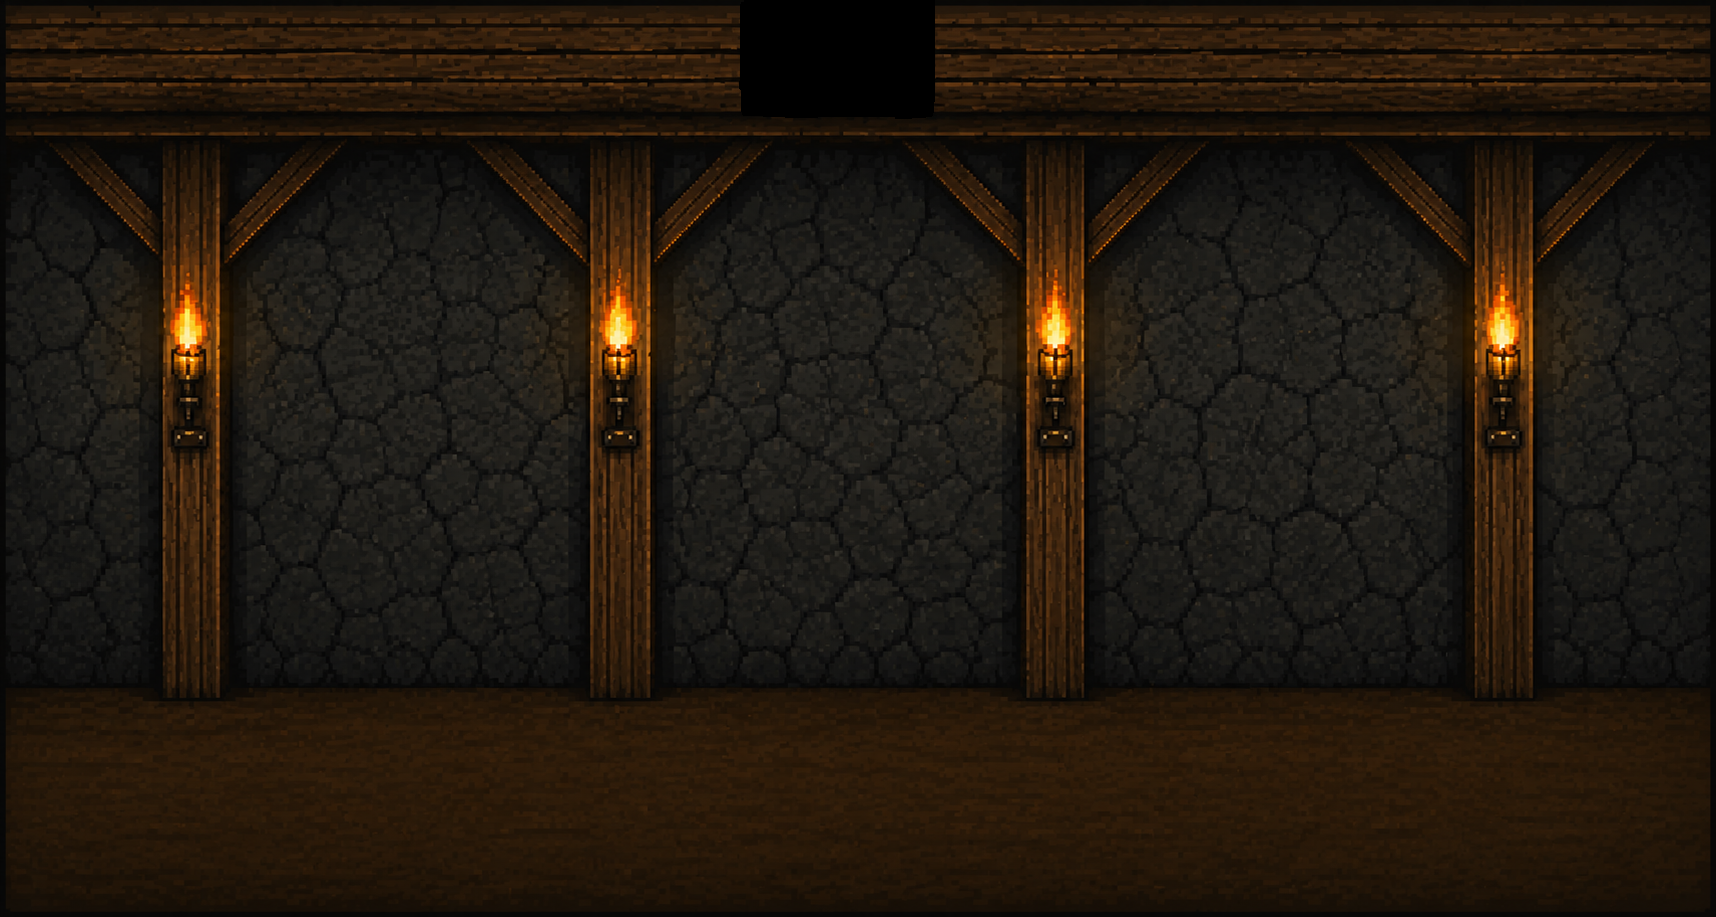
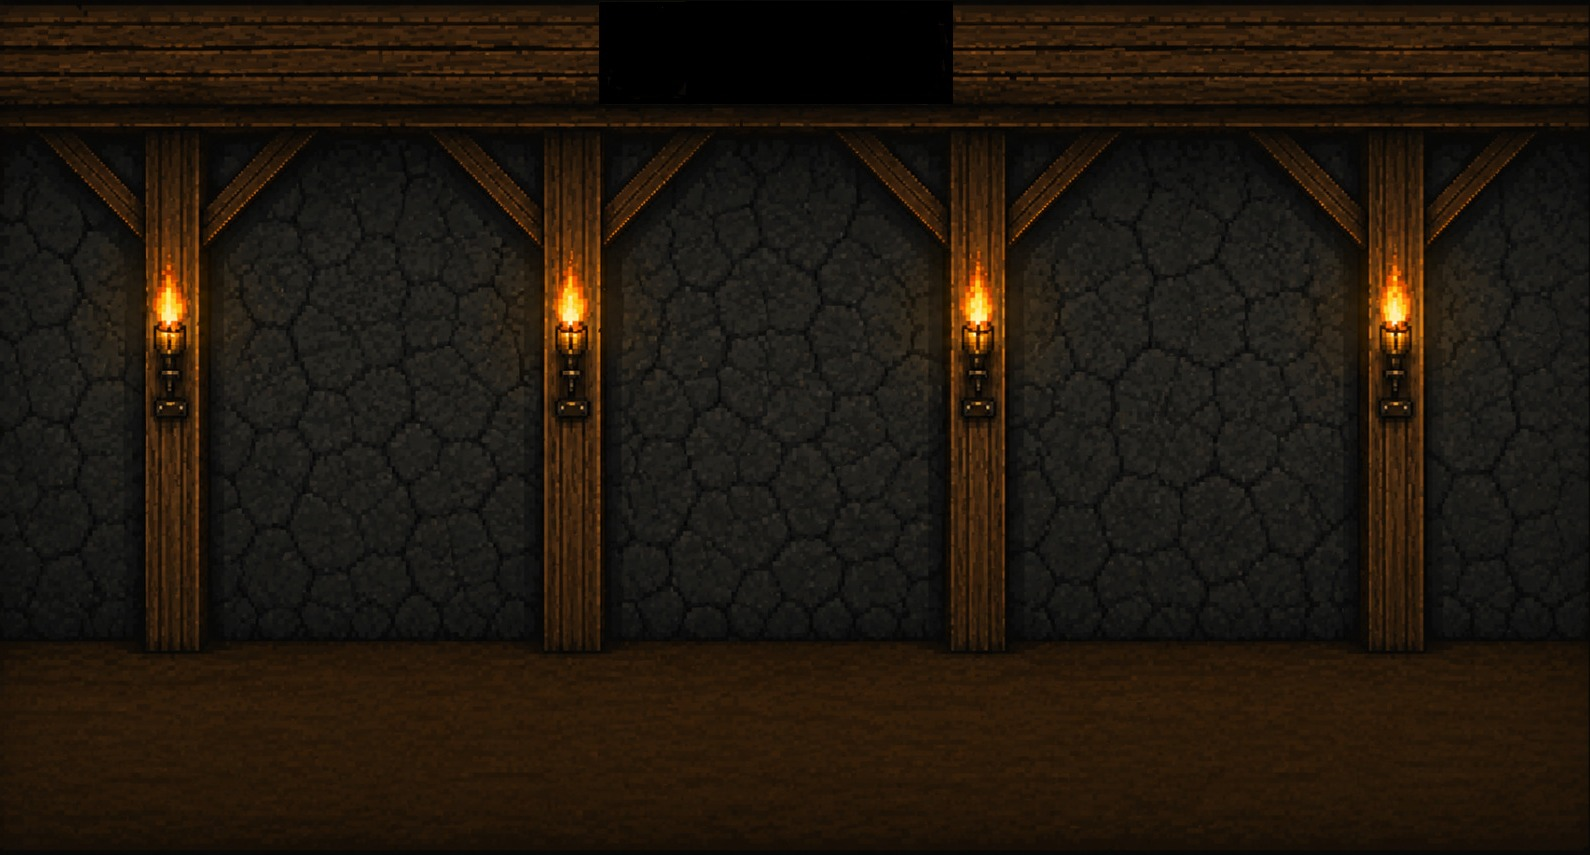
Mudanças nas interfaces e correção de bug na simulação

diff --git a/src/interface/simulation/SimulationInit.py b/src/interface/simulation/SimulationInit.py
@@ -45,23 +45,6 @@ class Simulation:
         self.robot.update_encoder()
         self.robot.update_lidar(self.tunnel, self.my_camera.off_set_x)
 
-    def act_upon_pressed_keys(self) -> None:
-        """Toma as ações necessárias a respeito das teclas pressionadas no teclado."""
-        keys = pygame.key.get_pressed()
-
-        if keys[pygame.K_LEFT]:
-            if not keys[pygame.K_RIGHT] and not self.robot.is_left_colliding(
-                self.tunnel
-            ):
-                self.robot.update_position(-self.robot.max_horizontal_speed, 0)
-
-        if keys[pygame.K_RIGHT]:
-            if not keys[pygame.K_LEFT]:
-                self.robot.update_position(self.robot.max_horizontal_speed, 0)
-
-        if not keys[pygame.K_LEFT] and not keys[pygame.K_RIGHT]:
-            self.robot.update_position(0, 0)
-
     def control_robot(self) -> None:
         """Atualiza as animações do robo e desenha elas na tela"""
         self.my_camera.follow_robot()
@@ -81,7 +64,7 @@ class Simulation:
             self.robot.correct_ground_intersection(self.tunnel)
         if self.robot.is_colliding(self.tunnel):
             self.robot.vertical_speed = 0
-        self.robot.apply_horizontal_velocity_effect(self.control_effort, 1 / self.FPS)
+        self.robot.apply_horizontal_velocity_effect(self.control_effort, 1 / self.FPS, self.tunnel)
 
     def simulation_run(self):
 
@@ -93,11 +76,6 @@ class Simulation:
             current_time = time.time()
 
             self.move_robot()
-
-            self.control_robot()
-
-            # TODO: Apagar duas linhas abaixo na versão final, não haverá controle por teclado na simulação
-            self.act_upon_pressed_keys()
 
             self.control_robot()
 

diff --git a/src/interface/simulation/tunnel.py b/src/interface/simulation/tunnel.py
@@ -64,15 +64,15 @@ class Tunnel:
         base = {
             "ceiling_h": 80,
             "hole_h": 1,
-            "obstacle_h": 160,
+            "obstacle_h": 165,
         }
         if tile == 0:
             ceiling = pygame.Rect(offset_x, 0, int(1280 * scale_x), int(base["ceiling_h"] * scale_y))
             self.colision_by_image[0] = [self.entrance, self.ground, ceiling]
         elif tile == 1:
-            ceiling1 = pygame.Rect(offset_x, 0, int(550 * scale_x), int(base["ceiling_h"] * scale_y))
-            ceiling2 = pygame.Rect(offset_x + int(700 * scale_x), 0, int(580 * scale_x), int(base["ceiling_h"] * scale_y))
-            hole = pygame.Rect(offset_x + int(550 * scale_x), 0, int(150 * scale_x), int(base["hole_h"] * scale_y))
+            ceiling1 = pygame.Rect(offset_x, 0, int(485 * scale_x), int(base["ceiling_h"] * scale_y))
+            ceiling2 = pygame.Rect(offset_x + int(770 * scale_x), 0, int(510 * scale_x), int(base["ceiling_h"] * scale_y))
+            hole = pygame.Rect(offset_x + int(485 * scale_x), 0, int(285 * scale_x), int(base["hole_h"] * scale_y))
             self.colision_by_image[1] = [
                 self.entrance,
                 self.ground,
@@ -81,9 +81,9 @@ class Tunnel:
                 hole,
             ]
         elif tile == 2:
-            ceiling1 = pygame.Rect(offset_x, 0, int(600 * scale_x), int(base["ceiling_h"] * scale_y))
-            ceiling2 = pygame.Rect(offset_x + int(650 * scale_x), 0, int(630 * scale_x), int(base["ceiling_h"] * scale_y))
-            obstacle = pygame.Rect(offset_x + int(600 * scale_x), 0, int(50 * scale_x), int(base["obstacle_h"] * scale_y))
+            ceiling1 = pygame.Rect(offset_x, 0, int(570 * scale_x), int(base["ceiling_h"] * scale_y))
+            ceiling2 = pygame.Rect(offset_x + int(685 * scale_x), 0, int(595 * scale_x), int(base["ceiling_h"] * scale_y))
+            obstacle = pygame.Rect(offset_x + int(570 * scale_x), 0, int(115 * scale_x), int(base["obstacle_h"] * scale_y))
             self.colision_by_image[2] = [
                 self.entrance,
                 self.ground,

diff --git a/src/interface/remoteOp/RemoteOperationInit.py b/src/interface/remoteOp/RemoteOperationInit.py
@@ -96,7 +96,7 @@ class RemoteOperationInterface:
         if keys[pygame.K_a]:
             self.mode = "AUTOMÁTICO"
             self.last_command = "Ativou modo automático"
-            self.speed_setpoint = 2.0
+            self.speed_setpoint = 20.0
         elif keys[pygame.K_m]:
             self.mode = "MANUAL"
             self.last_command = "Ativou modo manual"
@@ -104,10 +104,10 @@ class RemoteOperationInterface:
 
         if self.mode == "MANUAL":
             if keys[pygame.K_LEFT]:
-                self.speed_setpoint = -4.0
+                self.speed_setpoint = -40.0
                 self.last_command = "Mandou o robô ir para a esquerda"
             elif keys[pygame.K_RIGHT]:
-                self.speed_setpoint = 4.0
+                self.speed_setpoint = 40.0
                 self.last_command = "Mandou o robô ir para a direita"
             elif keys[pygame.K_s]:
                 self.speed_setpoint = 0.0
@@ -201,7 +201,7 @@ class RemoteOperationInterface:
         self.draw_text(self.last_command, text_x+text_width+x_offset*2, text_y+circle_offset/2, (200, 200, 120))
         text_y += line_height * 2
 
-        self.draw_text("Comandos disponíveis", text_x, text_y)
+        self.draw_text("Comandos disponíveis", text_x, text_y, (140, 220, 140))
         text_width, text_height = self.font.size(f"Comandos disponíveis")
         if self.mode == "AUTOMÁTICO":
             self.draw_text("Opções abaixo desabilitadas.", text_x+text_width*1.5, text_y, (220, 140, 140))
@@ -220,8 +220,8 @@ class RemoteOperationInterface:
         lidar_rect = pygame.Rect(margin, margin + graph_height + margin, graph_width, graph_height)
 
         # self.draw_graph(self.position_history, position_rect, (80, 220, 120), "Posição (m)", 0, self.screen_width)
-        self.draw_graph(self.velocity_history, velocity_rect, (240, 180, 40), "Velocidade (m/s)", -10, 10)
-        self.draw_graph(self.lidar_history, lidar_rect, (180, 100, 240), "Distância LIDAR (m)", 0, 10)
+        self.draw_graph(self.velocity_history, velocity_rect, (240, 180, 40), "Velocidade (m/s)", -5, 5)
+        self.draw_graph(self.lidar_history, lidar_rect, (180, 100, 240), "Distância LIDAR (m)", 2, 8)
 
     def run(self) -> None:
         while self.running:

diff --git a/src/processes/cameraInspection/CameraInspectionTask.cpp b/src/processes/cameraInspection/CameraInspectionTask.cpp
@@ -44,8 +44,13 @@ void cameraInspectionHandler() {
             is_inspecting = false;
             // printf("[CameraInspection] Teto normalizado.\n");
         }
-        // TODO (Davi): utilizar is_inspecting para decidir comportamento da
-        // câmera
+
+        if (is_inspecting) {
+            printf("[CameraInspection] Inspecionando imagens da câmera");
+            for (int i = 0; i < 2000000000; i++) {
+                int j = i;
+            }
+        }
     }
 
     sem_destroy(&wakeup_sem);

diff --git a/src/interface/simulation/robot.py b/src/interface/simulation/robot.py
@@ -130,7 +130,7 @@ class Robot(pygame.sprite.Sprite):
         self.update_position(0, -self.delta_pos_y)
 
     def apply_horizontal_velocity_effect(
-        self, control_effort: float, delta_t: float
+        self, control_effort: float, delta_t: float, tunnel: tunnel
     ) -> None:
         """Atualiza a velocidade horizontal com modelo de 1ª ordem (motor + atrito de rolamento)
         e em seguida atualiza a posição.
@@ -161,7 +161,10 @@ class Robot(pygame.sprite.Sprite):
         # Atualiza posição com a velocidade calculada
         delta_x = self.horizontal_speed_m_s * delta_t
         # print("delta_x (m): {:.4f}".format(delta_x))
-        self.update_position(delta_x*self.pixels_per_meter, 0)
+        if self.is_left_colliding(tunnel) and delta_x < 0:
+            pass
+        else:
+            self.update_position(delta_x*self.pixels_per_meter, 0)
 
     def correct_ground_intersection(self, tunnel: tunnel) -> None:
         """Coloca o player precisamente acima do chão após uma queda.